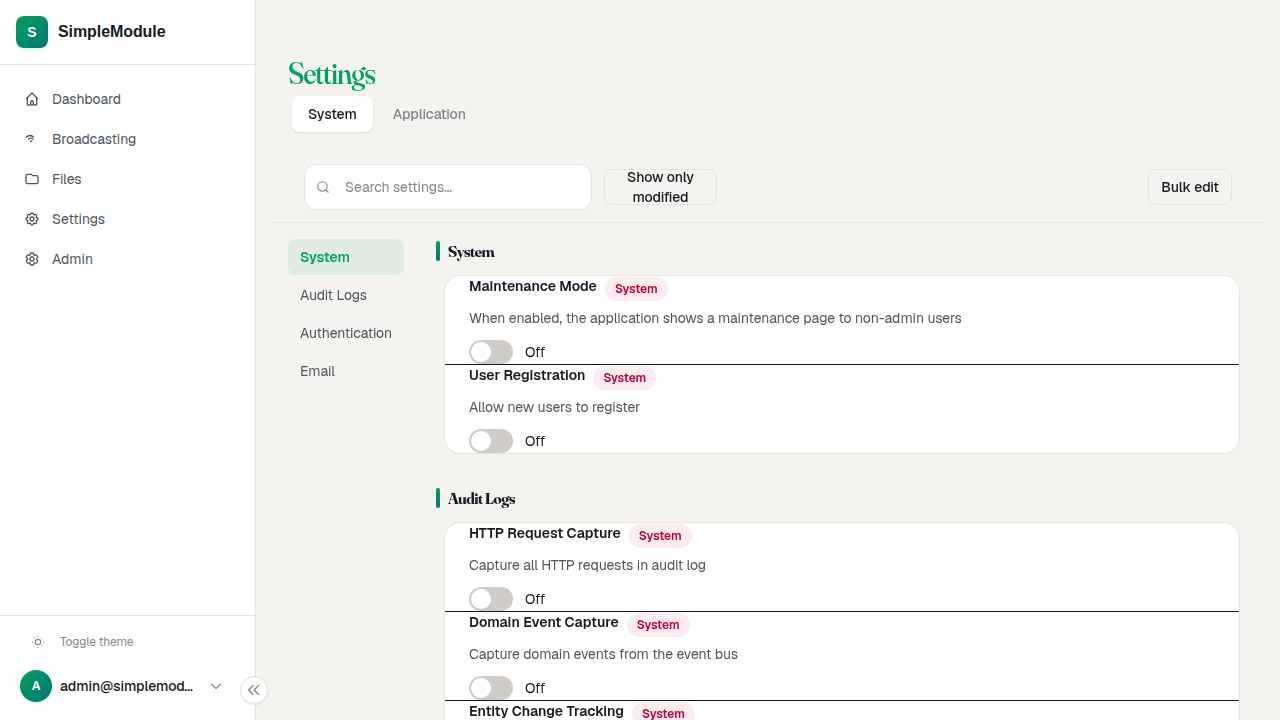
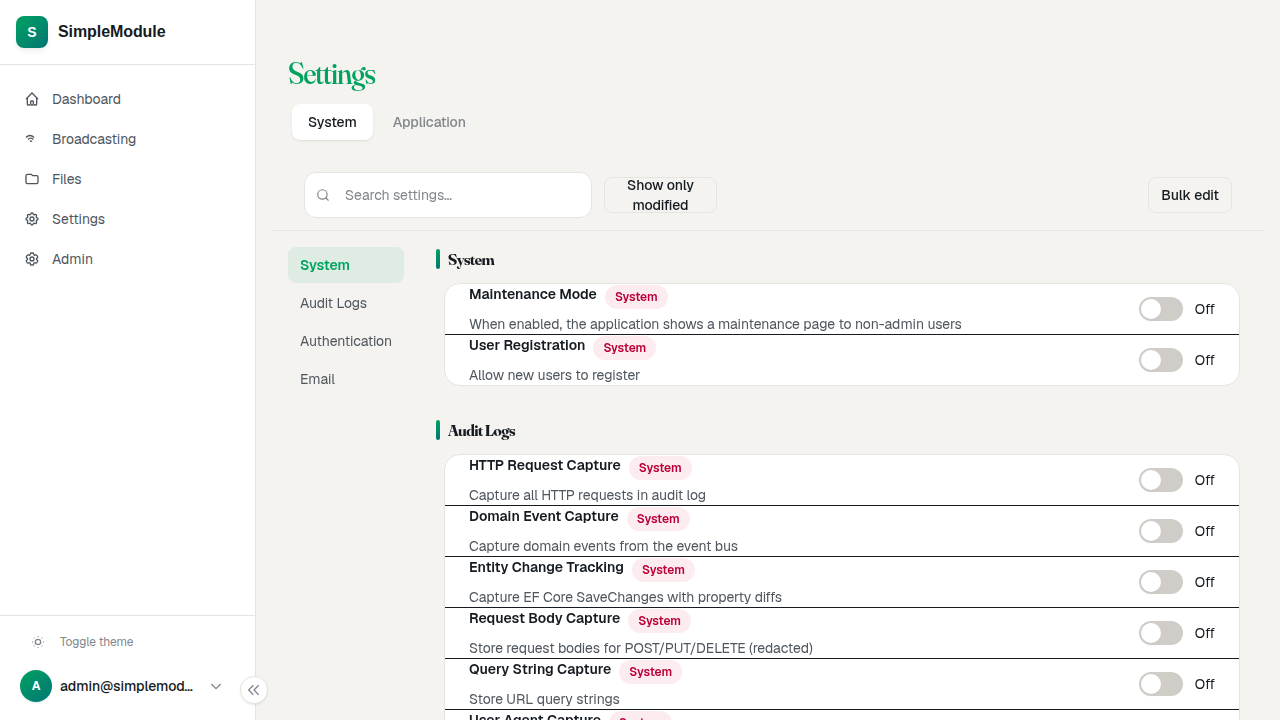
refactor(settings): row uses horizontal layout for compact field types

diff --git a/modules/Settings/src/SimpleModule.Settings/components/SettingRow.tsx b/modules/Settings/src/SimpleModule.Settings/components/SettingRow.tsx
@@ -28,6 +28,9 @@ const scopeBadgeVariant: Record<number, 'danger' | 'info' | 'success'> = {
   2: 'success',
 };
 
+// Wide types (Json, MultilineText) need their own row below the label.
+const WIDE_TYPES = new Set([3, 9]);
+
 function formatResolved(value: unknown): string | null {
   if (value === null || value === undefined) return null;
   if (typeof value === 'string') return value;
@@ -49,6 +52,7 @@ export default function SettingRow({
   const keys = SettingsKeys[namespace];
 
   const scopeVariant = scopeBadgeVariant[definition.scope] ?? 'default';
+  const isWide = WIDE_TYPES.has(definition.type);
 
   const scopeLabel = (() => {
     switch (definition.scope) {
@@ -78,57 +82,32 @@ export default function SettingRow({
         }
       : undefined;
 
-  return (
-    <div className="px-6 py-5 first:rounded-t-2xl last:rounded-b-2xl">
-      <div className="flex flex-wrap items-start justify-between gap-3 mb-1.5">
-        <div className="flex flex-wrap items-center gap-2 min-w-0">
-          <Label htmlFor={definition.key} className="text-sm font-semibold text-text">
-            {definition.displayName}
-            {definition.required && (
-              <span
-                className="ml-0.5 text-danger-text"
-                title={t(SettingsKeys.AdminSettings.RequiredAsterisk)}
-                aria-hidden="true"
-              >
-                *
-              </span>
-            )}
-          </Label>
-          <Badge variant={scopeVariant}>{scopeLabel}</Badge>
-          {valueInfo.isOverridden && <Badge variant="warning">{t(keys.Overridden)}</Badge>}
-          {!valueInfo.isOverridden && namespace === 'UserSettings' && (
-            <Badge variant="default">{t(keys.Default)}</Badge>
+  const labelBlock = (
+    <div className="min-w-0 flex-1">
+      <div className="flex flex-wrap items-center gap-2 mb-1">
+        <Label htmlFor={definition.key} className="text-sm font-semibold text-text">
+          {definition.displayName}
+          {definition.required && (
+            <span
+              className="ml-0.5 text-danger-text"
+              title={t(SettingsKeys.AdminSettings.RequiredAsterisk)}
+              aria-hidden="true"
+            >
+              *
+            </span>
           )}
-        </div>
-
-        {!bulkMode && handleReset && (
-          <Button
-            variant="ghost"
-            size="sm"
-            onClick={handleReset}
-            className="text-text-secondary hover:text-danger-text whitespace-nowrap -my-1"
-          >
-            {t(keys.ResetToDefault)}
-          </Button>
+        </Label>
+        <Badge variant={scopeVariant}>{scopeLabel}</Badge>
+        {valueInfo.isOverridden && <Badge variant="warning">{t(keys.Overridden)}</Badge>}
+        {!valueInfo.isOverridden && namespace === 'UserSettings' && (
+          <Badge variant="default">{t(keys.Default)}</Badge>
         )}
       </div>
-
       {definition.description && (
-        <p className="text-sm text-text-secondary mb-3 max-w-prose">{definition.description}</p>
+        <p className="text-sm text-text-secondary max-w-prose">{definition.description}</p>
       )}
-
-      <div className="max-w-xl">
-        <SettingField
-          definition={definition}
-          value={valueInfo.value}
-          onSave={handleSave}
-          onDirty={onDirty ? (isDirty: boolean) => onDirty(definition.key, isDirty) : undefined}
-          disabled={disabled}
-        />
-      </div>
-
       {showResolvedValue && resolvedDisplay !== null && (
-        <p className="text-xs text-text-muted mt-2">
+        <p className="text-xs text-text-muted mt-1.5">
           {t(keys.Current)}:{' '}
           <span className="font-mono text-text-secondary">{resolvedDisplay}</span>{' '}
           <span className="text-text-muted">
@@ -136,6 +115,51 @@ export default function SettingRow({
           </span>
         </p>
       )}
+    </div>
+  );
+
+  const fieldBlock = (
+    <SettingField
+      definition={definition}
+      value={valueInfo.value}
+      onSave={handleSave}
+      onDirty={onDirty ? (isDirty: boolean) => onDirty(definition.key, isDirty) : undefined}
+      disabled={disabled}
+    />
+  );
+
+  const resetButton = !bulkMode && handleReset && (
+    <Button
+      variant="ghost"
+      size="sm"
+      onClick={handleReset}
+      className="text-text-secondary hover:text-danger-text whitespace-nowrap shrink-0"
+    >
+      {t(keys.ResetToDefault)}
+    </Button>
+  );
+
+  if (isWide) {
+    return (
+      <div className="px-6 py-5">
+        <div className="flex items-start justify-between gap-4 mb-3">
+          {labelBlock}
+          {resetButton}
+        </div>
+        {fieldBlock}
+      </div>
+    );
+  }
+
+  return (
+    <div className="px-6 py-5">
+      <div className="flex flex-col gap-3 sm:flex-row sm:items-center sm:gap-6">
+        {labelBlock}
+        <div className="flex items-center gap-3 shrink-0 sm:w-72">
+          <div className="flex-1 min-w-0">{fieldBlock}</div>
+          {resetButton}
+        </div>
+      </div>
     </div>
   );
 }

diff --git a/modules/Settings/src/SimpleModule.Settings/Pages/AdminSettings.tsx b/modules/Settings/src/SimpleModule.Settings/Pages/AdminSettings.tsx
@@ -245,7 +245,7 @@ export default function AdminSettings({ definitions, settings }: AdminSettingsPr
 
   return (
     <PageShell title={t(SettingsKeys.AdminSettings.Title)} size="lg">
-      <Tabs defaultValue="system">
+      <Tabs defaultValue="system" className="mt-2">
         <TabsList className="w-full sm:w-auto">
           <TabsTrigger value="system">{t(SettingsKeys.AdminSettings.TabSystem)}</TabsTrigger>
           <TabsTrigger value="application">
